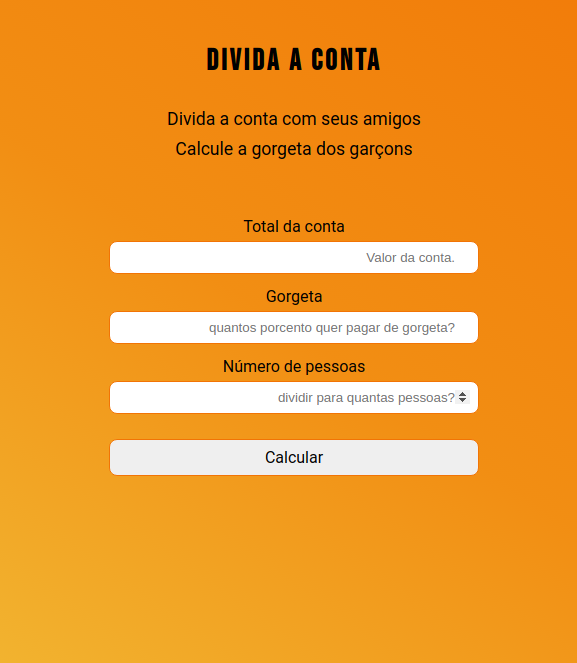
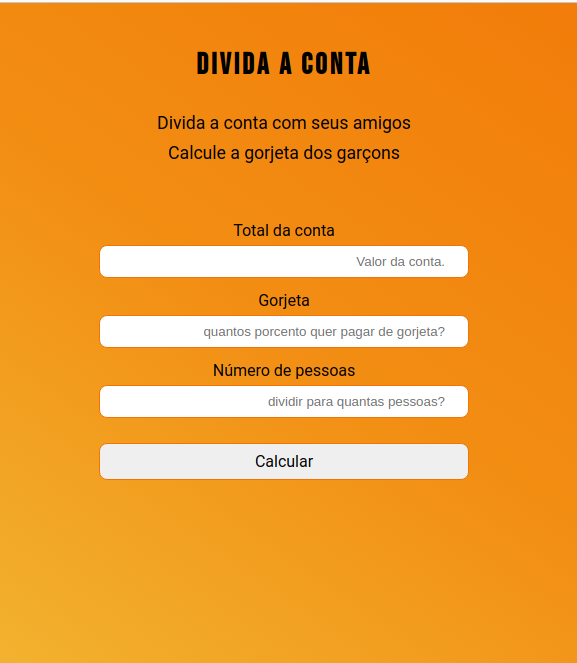
correção da palavra gorjeta

diff --git a/index.html b/index.html
@@ -4,17 +4,17 @@
     <meta charset="UTF-8">
     <meta http-equiv="X-UA-Compatible" content="IE=edge">
     <meta name="viewport" content="width=device-width, initial-scale=1.0">
-    <title>Calculadora de Gorgeta</title>
+    <title>Calculadora de Gorjeta</title>
     <link rel="stylesheet" href="style/style.css">
     <link rel="shortcut icon" href="favicon.ico" type="image/x-icon">
-    <meta name="description" content="Calcular a conta do restaurante,da gorgeta e da festinha nunca foi tão facil.">
+    <meta name="description" content="Calcular a conta do restaurante,da gorjeta e da festinha nunca foi tão facil.">
 </head>
 <body>
     <section class="topo">
         <div>
             <h1>Divida a Conta</h1>
             <p>Divida a conta com seus amigos</p>
-            <p>Calcule a gorgeta dos garçons</p>
+            <p>Calcule a gorjeta dos garçons</p>
         </div>
     </section>
     <section class="calculo">
@@ -23,8 +23,8 @@
             <input type="number" name="conta" id="iconta" placeholder="Valor da conta.">
         </div>
         <div class="flex">
-            <label for="igorgeta">Gorgeta</label>
-            <input type="number" name="gorgeta" id="igorgeta" placeholder="quantos porcento quer pagar de gorgeta?">
+            <label for="igorgeta">Gorjeta</label>
+            <input type="number" name="gorgeta" id="igorgeta" placeholder="quantos porcento quer pagar de gorjeta?">
         </div>
         <div class="flex">
             <label for="ipessoas">Número de pessoas</label>

diff --git a/README.md b/README.md
@@ -3,7 +3,7 @@
 [Acesse aqui o projeto](https://alessandraromualdo.github.io/calculadora-gorgeta/)
 
 _É uma página para dividir valores de uma festa ou restaurante._
-_O valor da gorgeta é opcional caso não se aplique_
+_O valor da gorjeta é opcional caso não se aplique_
 
 #### Oque foi usado:
 
